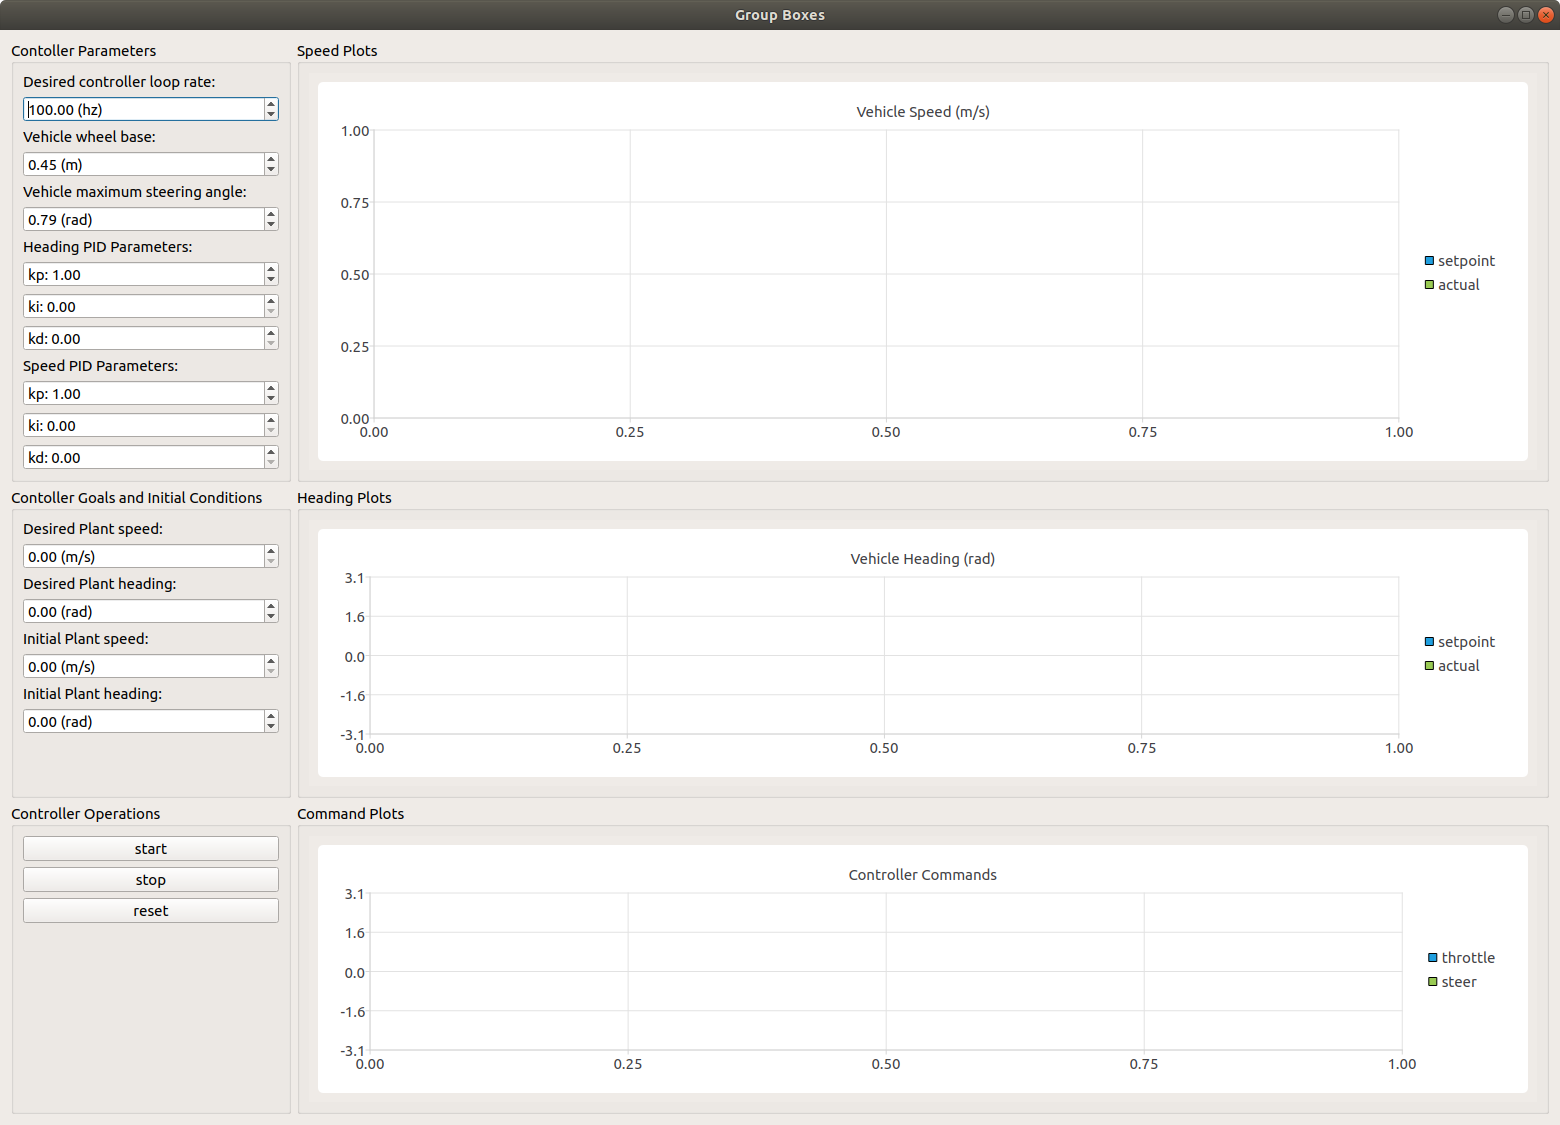
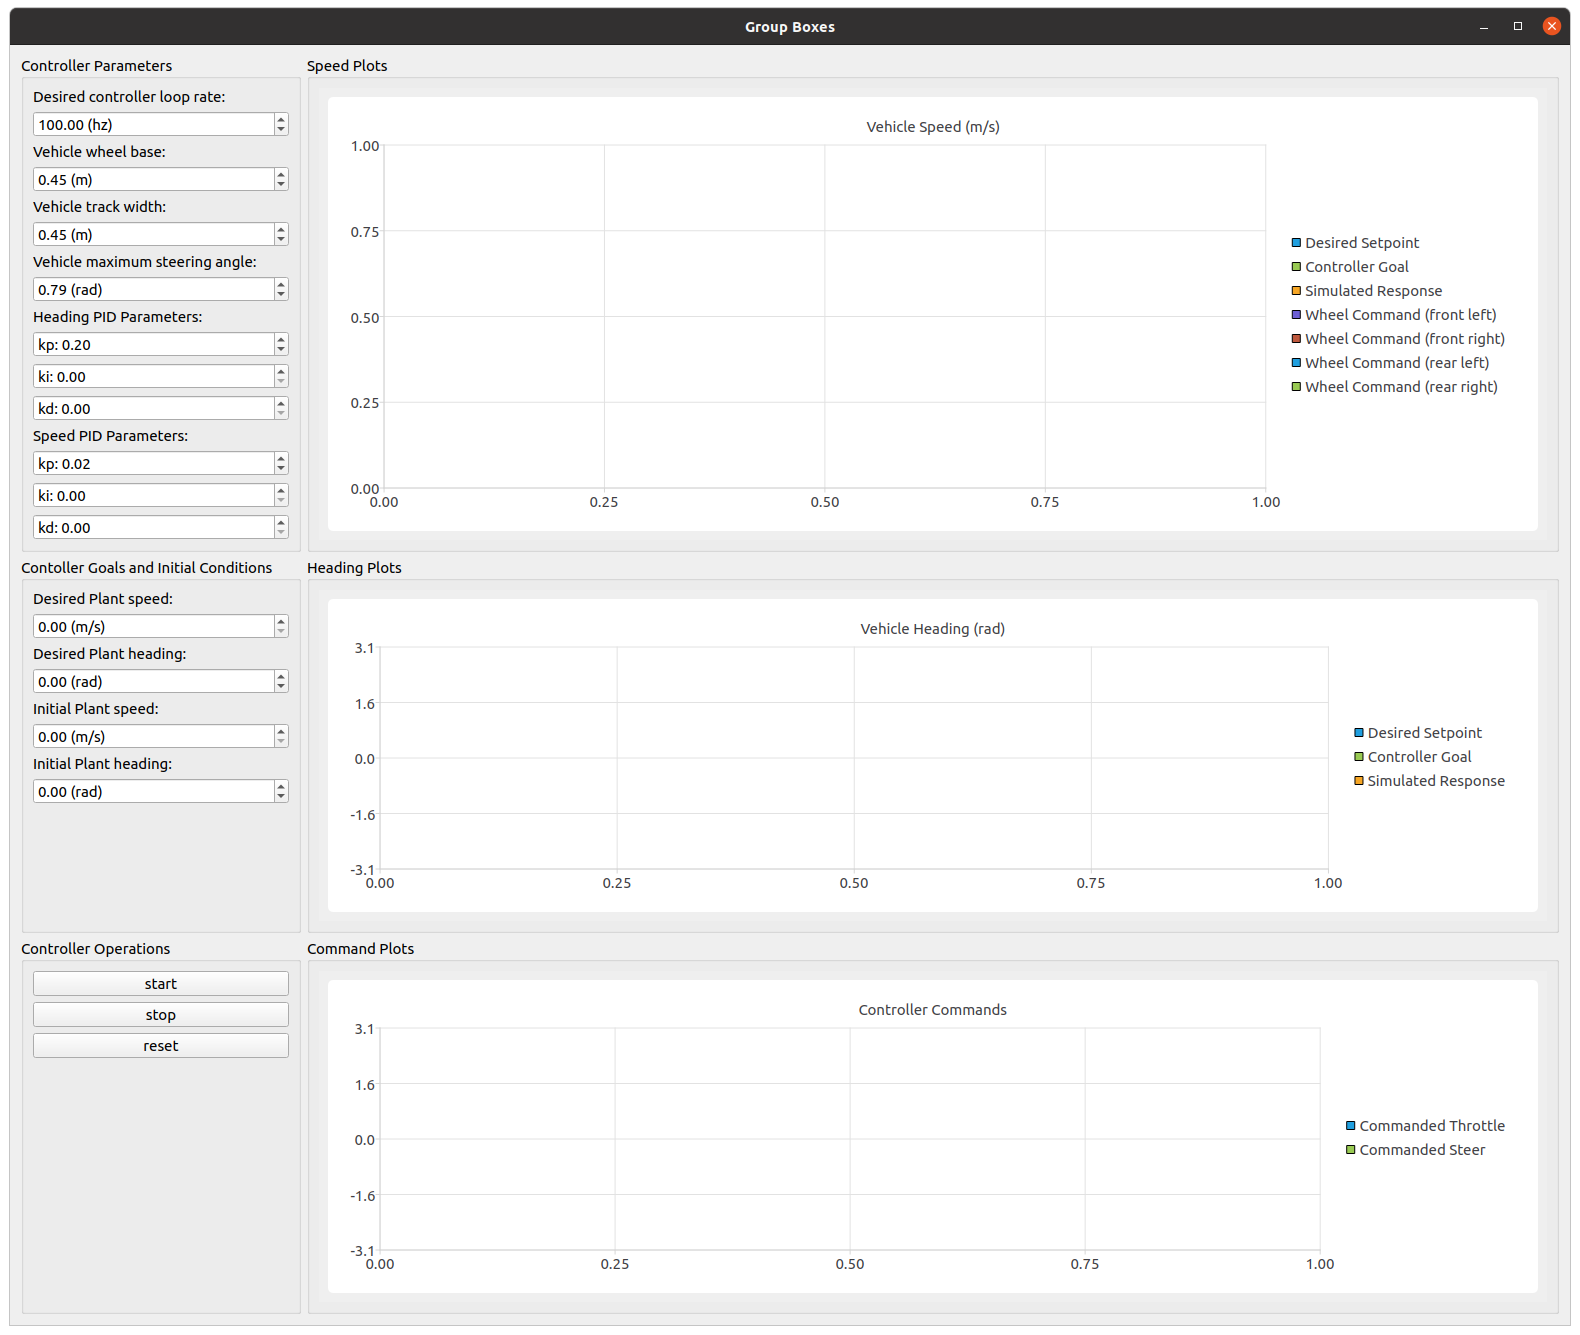
[Task 2.8] Updated README file with new language and images. Added some bugs that could be fixed in future versions.

diff --git a/readme.md b/readme.md
@@ -37,6 +37,10 @@ mkdir build && cd build
 cmake .. && make
 ```
 A script to launch this is included in BashScripts.
+```bash
+# from the BashScripts directory
+./buildme.sh
+```
 
 ### Demonstration Instructions
 
@@ -48,6 +52,10 @@ Assuming the build succeeded, you can then run the demo code.
 ```
 
 A script to launch this is included in BashScripts.
+```bash
+# from the BashScripts directory
+./runme.sh
+```
 
 You should see something similar to the following, which allows you to evaluate the system and play with parameters against a mock Plant.
 
@@ -64,6 +72,16 @@ Unit and System tests are run during Continuous integration, but you can run the
 ./test/cpp-test
 ```
 A script to launch this is included in BashScripts.
+```bash
+# from the BashScripts directory
+./testme.sh
+```
+
+Copies of the CPPCheck and CPPLint outputs can be found in:
+
+```bash
+/results
+```
 
 To generate CPPCheck and CPPLint code analysis:
 
@@ -75,8 +93,8 @@ chmod +x check_cppcheck.sh check_cpplint.sh
 ```
 
 ## Personnel
-* Spencer Elyard, *TODO: Complete personnel blurb.*
-* Santosh Kesani, *TODO: Complete personnel blurb.*
+* Spencer Elyard, a roboticist working on his Masters at UMD.
+* Santosh Kesani, a roboticist working on his Masters at UMD.
 * Daniel Sahu, a roboticist working on his Masters at UMD.
 
 ## Licensing
@@ -90,11 +108,19 @@ Details on the status of our Agile Iterative Process (AIP) [can be found here](h
 Sprint planning notes and reviews [can be found here](https://docs.google.com/document/d/1MEoRXtJXdUWnkTbJmcDfJYct3i6_LEJ-TULpP2h_qYA/edit?usp=sharing).
 
 ## Known Bugs and Issues
-**TODO: Annote bugs and issues when uncovered.**
+
+Major:
+* Can set various values in GUI to zero, which causes unexpected behavior including crashes. This action should be avoided.
+
+Minor:
+* Wheel linear velocity updates in the plot window lag slightly behind the vehicle speed indicated.
+* Cannot use up/down arrows in selection box to pass beyond a full circle; manually entering the heading will perform as expected.
 
 ### Documentation Generation instructions
 
-To generate Doxygen documentation:
+A browsable version of the Doxygen documentation [can be accessesd here.](https://selyard.github.io/ackermann_controller_doc/index.html)
+
+To generate Doxygen documentation locally:
 
 ```bash
 # from your install directory (e.g. ackermann-controller/)
@@ -116,9 +142,9 @@ The controller enforces the various limitations of the rover:
   * Maximum allowable steering angle (absolute value) (0.785 radians for demo)
 * Dynamic Limitations
   * Maximum (forward) and minimum (reverse) speed limitations (10 m/s and 0 m/s for demo).
-  * Maximum (forward) and minimum (reverse) acceleration limitations (+/- 5 m/s^2 for demo).
-  * Maximum (right) and minimum (left) angular velocity limitations (TBD)
-  * Maximum (right) and minimum (left) angular acecleration limitations (TBD)
+  * Maximum (forward) and minimum (reverse) acceleration limitations (+/- 50 m/s^2 for demo).
+  * Maximum (right) and minimum (left) angular velocity limitations (unlimited for demo)
+  * Maximum (right) and minimum (left) angular acceleration limitations (unlimited for demo)
 * Controller Parameters
   * Frequency (100hz for demo)
   * PID controller parameters for speed control
@@ -135,6 +161,7 @@ The controller will provide the following outputs:
 * Throttle and Steering Commands, limited as appropriate by the established limitations from the rover model
 * Current calculated speed and heading
 * Current desired heading (global coordinate frame) and speed
+* Current individual wheel linear velocities, which can be used in the future with wheel size to calculate wheel RPM
 
 ## Class Diagram
 
